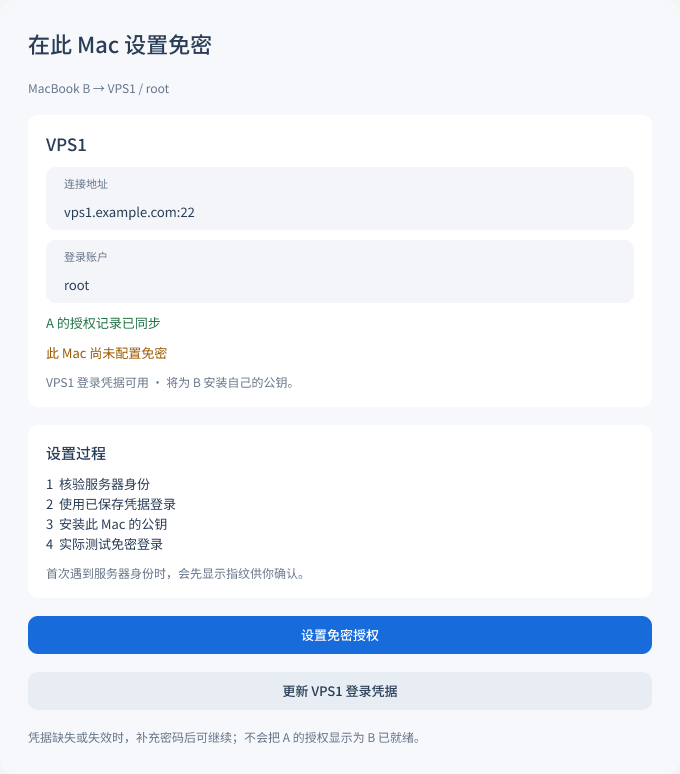
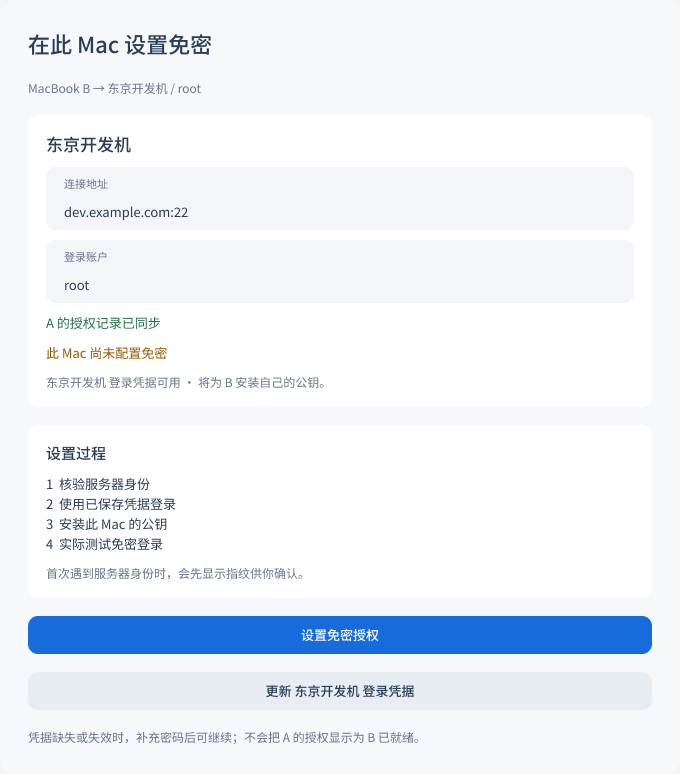
docs: separate local device setup from server authorization (#117)

diff --git a/Docs/Issue115/requirements.md b/Docs/Issue115/requirements.md
@@ -2,15 +2,15 @@
 
 - 状态：需求与交互设计提案；未实现、未完成真实 SSH / 双 Mac iCloud 验收。
 - 日期：2026-09-15
-- 关联：[#115](https://github.com/jihtsan/key-port/issues/115)
+- 关联：初稿 [#115](https://github.com/jihtsan/key-port/issues/115)；当前修订 [#117](https://github.com/jihtsan/key-port/issues/117)
 - 设计：[Figma 页面](https://www.figma.com/design/RGpDDMdxvoPwzhlTB5RyiY?node-id=61-2)
 - 配套：[交互与设计索引](design.md)、[验收清单](acceptance.md)
 
 ## 1. 用户目标与范围
 
-A 已配置 VPS1 后，B 通过同一 Apple 账户同步 VPS1 资料及用户选择保存的登录凭据，点击“设置免密授权”，即可安装 B 自己的公钥并验证登录。单向免密成功后，可主动点击红色“开启双向免密”，允许 VPS1 以指定本机账户反向 SSH 登录。
+A 已配置目标服务器后，B 通过同一 Apple 账户同步目标服务器资料及用户选择保存的登录凭据，点击“设置免密授权”，即可安装 B 自己的公钥并验证登录。单向免密成功后，可主动点击红色“开启双向免密”，允许目标服务器以指定本机账户反向 SSH 登录。
 
-本次只交付文档和 Figma。后续实现须遵循 Issue → 独立分支 → PR → 验证 → 合并流程。示例设备、地址、密码掩码与指纹均为设计数据。无需为设计操作真实设备或读取实际凭据。
+本次只交付文档和 Figma。后续实现须遵循 Issue → 独立分支 → PR → 验证 → 合并流程。服务器名称、ID、账户、地址和授权关系均来自当前选中的真实对象。VPS1、VPS2、东京开发机仅为示例称呼，不是固定栏目、内置设备或业务判断条件。示例设备、地址、密码掩码与指纹均为设计数据。无需为设计操作真实设备或读取实际凭据。
 
 ## 2. 关键定义
 
@@ -28,22 +28,50 @@ A 已配置 VPS1 后，B 通过同一 Apple 账户同步 VPS1 资料及用户选
 
 ## 3. 我的设备配置（D）
 
+我的设备仅配置本机默认信息和连接准备状态，不显示“谁可以登录此 Mac”、服务器列表或每服务器授权操作。服务器关系统一在服务器详情管理。
+
 | ID | 字段 / 能力 | 行为 |
 | --- | --- | --- |
-| D1 | 设备名称 | 显示当前 Mac 标识，允许修改 |
-| D2 | 默认 SSH 别名 | 自动生成并允许修改；重命名只影响后续预填，不自动改写已建立连接 |
-| D3 | 本机登录账户 | 默认当前 macOS 用户名；可选其他真实账户，操作权限不足时明确提示 |
-| D4 | 地址、端口 | 端口默认 22；支持保存局域网或 Tailscale 等候选地址，选择对方可达地址 |
-| D5 | 远程登录状态 | 检测 SSH 服务与目标账户允许情况；未开启时提供设置引导，不假定密码可开启服务 |
-| D6 | 可选本机密码 | 首次手输；保存不会修改系统密码；本地公钥安装不强制依赖此字段 |
-| D7 | 公钥与设备列表 | 保留现有设备、公钥指纹展示与选择复制能力 |
-| D8 | 入站授权 | 展示来源设备/账户 → 本机账户、指纹、最后核对与验证结果，提供核对、测试、撤销 |
+| D1 | 设备名称 | 当前 Mac 的展示标识，可修改 |
+| D2 | 默认 SSH 别名 | 自动生成并可修改；只影响后续预填，不自动改写已有连接 |
+| D3 | 本机登录凭据 | 账户与密码合并在唯一编辑入口；默认账户为当前用户，可修改为其他真实账户 |
+| D4 | 连接方式 | 公网 IP / 域名、Tailscale、局域网三种可选配置；无需强制填写公网地址 |
+| D5 | 远程登录状态 | 检测 SSH 服务与目标账户允许情况；未开启提供设置引导 |
+| D6 | 已保存凭据状态 | 在 D3 区域显示“账户 · 密码已保存”和同步状态，仅提供编辑/移除；不重复创建一份凭据 |
+| D7 | 本机公钥信息 | 展示或展开本机公钥指纹、复制能力；其他 KeyPort Mac 可按设备切换查看，不混入服务器授权列表 |
+| D8 | 页面边界 | 只提供本机配置；具体服务器的两向状态、测试、公钥核对与撤销属于服务器详情 |
 
-配置修改需要保存；未保存退出提示保存或放弃。地址更新不自动撤销公钥、不自动替换远端已存在别名。
+“本机信息”上方不再有独立的登录账户或登录证书表单。此功能不引入 SSH CA 证书登录。双向确认窗口只读引用 D3 的账户和凭据状态，不再次要求输入同一账号密码；需要修改时进入同一个编辑入口，返回后重新核对目标。更换账户不能把原账户密码自动绑定到新账户。编辑时新密码留空表示保持原密码，移除必须使用明确动作。
+
+配置修改需要保存；未保存退出提示保存或放弃。地址更新不自动撤销公钥、不自动替换远端已有别名。
+
+### 3.1 连接方式（N）
+
+| 方式 | 配置与获取 | 状态与限制 |
+| --- | --- | --- |
+| 公网 IP / 域名 | 手填有效 IPv4、IPv6 或域名及外部 SSH 端口 | 必须实际指向此 Mac；路由器出口 IP 不代表 Mac 已可被入站连接，存在 NAT 时需端口映射；不自动开放路由器或防火墙 |
+| Tailscale | 检测本机客户端 → 引导安装/官方登录 → 读取本机 Tailscale IP、可用设备域名 → 保存地址和 SSH 端口 | 没有公网地址也可选择；网络接入成功与 SSH 授权分开记录 |
+| 局域网 | 检测或手填本机局域网地址及 SSH 端口，多个接口时允许选择 | 明示仅适用于能够路由到该地址的对方，不承诺公网服务器可直接访问 |
+
+三种方式可分别保存为候选，本机设置默认方式；具体服务器双向确认时选择可达候选，不覆盖默认。未配置公网 IP 时不报必填错误、不阻止 Tailscale 路径。其他组网产品保留扩展点，不显示尚未支持的“授权成功”按钮。
+
+### 3.2 Tailscale 获取与授权流程
+
+1. 未安装：提供官方安装入口；KeyPort 不静默安装系统网络组件。
+2. 已安装未登录：按钮“打开 Tailscale 登录”，由官方客户端/浏览器完成身份验证及必要网络扩展许可；KeyPort 不索取 Tailscale 密码。
+3. 用户返回：刷新本地客户端状态，只有连接完成并取得本机节点地址才显示“地址已获取”；不能因为浏览器关闭或点击了登录按钮就判定成功。
+4. 读取本机节点的 IP 和可用设备域名，不要求用户申请云端 API token、OAuth client secret 或填写设备授权密钥来完成本机地址获取。
+5. 未完成登录、等待设备审批、客户端停止、地址缺失或读取失败分别提示；保留重试和手动改用其他连接方式入口。退出登录后旧地址标为待重新验证，不能继续显示已连接。
+6. 此处授权的是加入 Tailscale 网络。服务器也须有到该节点的有效网络路径，且网络访问规则允许目标端口；一般由服务器接入同一网络或经明确允许的共享/路由访问。
+7. 在服务器详情执行反向 SSH 端口检测与登录验证，才能得出“该服务器能登录此 Mac”。本机地址已获取不等于任意服务器都可达。
+8. 本期使用 Tailscale 承载普通 SSH 网络连接，继续使用既有公钥安装流程；不自动启用 Tailscale SSH。若它接管所选端口，须识别认证路径冲突并提供明确提示，不能将普通 authorized_keys 核对结果当作 Tailscale SSH 授权结论。
+9. iCloud 可同步所选方式和地址等管理元数据，不同步 Tailscale 会话、设备私有身份或登录票据。新 Mac 仍需完成自身 Tailscale 接入。
+
+技术依据（2026-09-15 核对官方文档）：[普通 SSH over Tailscale](https://tailscale.com/docs/reference/ssh-over-tailscale)、[CLI 状态读取](https://tailscale.com/docs/reference/tailscale-cli?tab=macos)、[Tailscale SSH 的独立认证路径](https://tailscale.com/docs/features/tailscale-ssh)。具体 macOS 客户端调用方式和系统权限需在实现阶段验证。
 
 ## 4. 凭据保存与同步（C）
 
-1. 服务器凭据绑定服务器身份与登录账户；本机凭据绑定本机身份与目标账户。禁止用 A 的本机密码当作 VPS1 密码。
+1. 服务器凭据绑定服务器身份与登录账户；本机凭据绑定本机身份与目标账户。禁止用 A 的本机密码当作目标服务器的密码。
 2. 保存面板提供“保存并通过 iCloud 同步”的明确选择；取消不保存。首次接入面板也允许只为本次使用，不持久化。
 3. 密码输入默认隐藏，展示/更换/移除需适当本机身份验证。只向当前操作提供必要的凭据；不写日志、命令行参数、SSH Config、普通工作区 JSON、Git、截图或元数据备份。
 4. 本地保存状态与同步状态分开：未保存、已保存仅本机、同步中、已同步、同步失败；B 还要区分“凭据未到达”与“凭据不可访问”。元数据先到时允许等待/重试或手输。
@@ -58,8 +86,8 @@ A 已配置 VPS1 后，B 通过同一 Apple 账户同步 VPS1 资料及用户选
 
 ## 5. B 一键建立正向免密（F）
 
-1. B 同步到 VPS1 后显示 A 的授权记录，以及“此 Mac 尚未配置免密”。
-2. 点击“设置免密授权”，预填 VPS1 地址、账户及可用凭据状态。
+1. B 同步到目标服务器后显示 A 的授权记录，以及“此 Mac 尚未配置免密”。
+2. 点击“设置免密授权”，预填目标服务器地址、账户及可用凭据状态。
 3. 核验目标主机身份；首次指纹未知或身份变化时显示确认流程，不自动信任。
 4. 为 B 创建或选择本机密钥；用有效登录凭据安装 B 的公钥，避免重复写入。
 5. 使用 B 的私钥进行真实非交互 SSH 验证；成功才显示“本机免密已就绪”。
@@ -71,15 +99,15 @@ A 已配置 VPS1 后，B 通过同一 Apple 账户同步 VPS1 资料及用户选
 
 ### 入口与确认
 
-正向已验证后，在具体服务器账户授权区域显示红色“开启双向免密”；“我的设备”入站授权列表也可进入同一关系面板。正向未就绪时引导先完成正向免密。
+在服务器列表选中一个服务器与登录账户后，详情展示“此 Mac → 当前服务器”和“当前服务器 → 此 Mac”的独立状态。正向已验证后显示红色“开启双向免密”；正向未就绪时引导先完成正向免密。我的设备没有服务器授权列表或双向按钮。切换服务器必须重新绑定该服务器的关系状态，不能沿用上一台服务器的结果。
 
-确认窗口列出 VPS1 来源账户、本机目标账户、目标地址/端口、反向 SSH 别名、授权效果与必要的专用密钥创建说明。默认取消，不因 iCloud 同步自动执行。红色表示授予对方本机访问能力，必须附文字说明，不能仅依赖颜色。
+确认窗口列出目标服务器来源账户、本机目标账户、所选连接方式与目标地址/端口、反向 SSH 别名、授权效果与必要的专用密钥创建说明。默认取消，不因 iCloud 同步自动执行。红色表示授予对方本机访问能力，必须附文字说明，不能仅依赖颜色。
 
 ### 别名规则
 
 - 预填 D2 默认值，可在确认窗口直接编辑。
 - 本次修改只作用于该反向关系，不覆盖设备默认值。
-- 写入的是 VPS1 上该来源账户的 SSH 配置，不是本机的出站别名。
+- 写入的是目标服务器上该来源账户的 SSH 配置，不是本机的出站别名。
 - 验证非空、合法字符与有效 SSH 配置重名，考虑 Include 与匹配规则；复用已有别名块必须确认属于同一受管理关系。
 - 冲突展示替代建议并要求用户选择，不静默覆盖用户配置。只管理 KeyPort 自己的配置块。
 - 该别名仅保证在已配置它的来源账户上可用；不宣称所有终端或设备自动可用。
@@ -87,10 +115,10 @@ A 已配置 VPS1 后，B 通过同一 Apple 账户同步 VPS1 资料及用户选
 ### 执行与验证
 
 1. 检查本机远程登录、目标账户权限和反向地址；本机安装当前用户授权文件通常无需密码，涉及系统设置或其他用户须通过适当系统权限流程。
-2. 通过现有正向 SSH 会话，在 VPS1 的明确来源账户下创建/选择专用反向密钥。优先每关系专用，私钥留在 VPS1；无可用工具、只读主目录等情况给出失败原因。
+2. 通过现有正向 SSH 会话，在目标服务器的明确来源账户下创建/选择专用反向密钥。优先每关系专用，私钥留在目标服务器；无可用工具、只读主目录等情况给出失败原因。
 3. 将对应公钥安装到本机目标账户，保留其他公钥及选项，记录安装来源与指纹。
-4. 为 VPS1 写入本机身份验证所需的主机信任信息与受管理别名块；不可关闭主机密钥检查来通过测试。
-5. 从 VPS1 实际连接到本机目标账户，验证免密成功；分别记录安装、别名写入和登录结果。
+4. 为目标服务器写入本机身份验证所需的主机信任信息与受管理别名块；不可关闭主机密钥检查来通过测试。
+5. 从目标服务器实际连接到本机目标账户，验证免密成功；分别记录安装、别名写入和登录结果。
 6. 正向与反向都验证成功后显示“双向免密已就绪”。地址不可达时不能宣称成功。
 
 ## 7. 状态、失败与撤销（S）
@@ -115,7 +143,7 @@ A 已配置 VPS1 后，B 通过同一 Apple 账户同步 VPS1 资料及用户选
 
 展示准确来源、目标账户及公钥指纹，经本机身份验证后移除指定授权。只清理属于该关系的内容，不删除无关密钥、配置、日志。正向连接保持不变。
 
-优先采用每关系专用公钥；若已有公钥被多个关系复用，必须列出实际受影响范围，不能声称仅影响一条关系。VPS1 离线不阻止本机撤销，但其别名可能标记为待清理。移除公钥不会主动终止已建立 SSH 会话。读取或写入失败显示“撤销未确认”，核对成功后才显示“已撤销”。不自动删除 VPS1 的私钥。
+优先采用每关系专用公钥；若已有公钥被多个关系复用，必须列出实际受影响范围，不能声称仅影响一条关系。目标服务器离线不阻止本机撤销，但其别名可能标记为待清理。移除公钥不会主动终止已建立 SSH 会话。读取或写入失败显示“撤销未确认”，核对成功后才显示“已撤销”。不自动删除目标服务器的私钥。
 
 ## 8. 现有行为与迁移
 
@@ -125,8 +153,8 @@ A 已配置 VPS1 后，B 通过同一 Apple 账户同步 VPS1 资料及用户选
 
 ## 9. 后续实现拆分
 
-1. 本机配置与默认别名、入站关系模型和兼容迁移。
-2. 凭据存取及真实双 Mac 同步能力验证；确定选型后实现 C。
+1. 本机配置、唯一凭据入口、默认别名与连接方式；服务器详情关系模型和兼容迁移。
+2. Tailscale 客户端接入与本机地址读取；凭据存取及真实双 Mac 同步能力验证，确定选型后实现 C。
 3. B 的正向首次授权与失败恢复。
 4. 反向密钥、信任、别名安装及逐步验证。
 5. 精确撤销、共享公钥范围、异常恢复和原生 UI 验收。

diff --git a/Docs/Issue115/design.md b/Docs/Issue115/design.md
@@ -1,42 +1,57 @@
 # Figma 交互设计索引
 
-[需求](requirements.md) · [验收](acceptance.md) · [Issue #115](https://github.com/jihtsan/key-port/issues/115)
+[需求](requirements.md) · [验收](acceptance.md) · [修订 Issue #117](https://github.com/jihtsan/key-port/issues/117)
 
-## 设计范围与基线
+## 页面职责
 
-沿用现有 [设置 v2](https://www.figma.com/design/RGpDDMdxvoPwzhlTB5RyiY?node-id=54-2) 的浅色分组表单、圆角卡片及蓝色主操作；双向授予与撤销使用带文字解释的红色按钮。新增独立页面，不覆盖已有设计。
+| 页面 | 内容 | 唯一数据来源 |
+| --- | --- | --- |
+| 我的设备 | 本机名称、默认别名、连接方式、登录凭据摘要和远程登录状态 | 当前 Mac 配置 |
+| 编辑本机登录凭据 | 账户与密码的唯一编辑入口 | 同一份设备账户凭据 |
+| 配置连接方式 | 可选公网 IP / 域名、Tailscale、局域网 | 本机候选地址及默认方式 |
+| 服务器详情 | 当前服务器与本机的两向授权状态、双向按钮、核对、测试、撤销 | 当前选中服务器、账户和当前 Mac 的关系 |
 
-代码使用系统字体及 JetBrains Mono；现有设计使用 Noto Sans SC。本轮 Figma 的 SF Pro 拉丁字形实际渲染为空，已统一使用现有 Noto Sans SC 并重新检查截图。实现仍使用原生系统字体，需要单独做字体与布局验收。此次是可编辑界面提案，不交付独立组件库；当前文件未发现 KeyPort 发布组件、变量或样式。
+我的设备不列“谁可以登录此 Mac”，不放任何具体服务器卡片或双向免密按钮。已保存本机凭据只展示摘要与“编辑登录凭据”，上方不再重复设置账户或证书。示例服务器名称全部由真实选中对象替换；“东京开发机”与先前 VPS1/VPS2 都不是固定项目。
+
+## 设计基线
+
+沿用 [设置 v2](https://www.figma.com/design/RGpDDMdxvoPwzhlTB5RyiY?node-id=54-2) 的浅色分组表单和蓝色主操作，授予反向访问和撤销使用红色并明确说明对象。沿用本次设计页面更新，旧稿由 Git 历史保存。
+
+代码使用系统字体；Figma 使用既有 Noto Sans SC，避免已观察到的 SF Pro 渲染空白。所有文字显式设定可用宽度，并校验边界。此次为可编辑画板和部分导航演示，不交付独立组件库，也不是原生可输入界面。
 
 ## 界面与需求映射
 
 | 界面 | Figma | 覆盖需求 | 截图 |
 | --- | --- | --- | --- |
-| 01 我的设备 | [61:3](https://www.figma.com/design/RGpDDMdxvoPwzhlTB5RyiY?node-id=61-3) | D1–D8 | [PNG](evidence/01-my-devices.png) |
-| 02 新 Mac 设置免密 | [61:4](https://www.figma.com/design/RGpDDMdxvoPwzhlTB5RyiY?node-id=61-4) | C、F | [PNG](evidence/02-new-mac.png) |
-| 03 双向免密确认 | [61:5](https://www.figma.com/design/RGpDDMdxvoPwzhlTB5RyiY?node-id=61-5) | R、默认别名覆盖 | [PNG](evidence/03-confirm.png) |
-| 04 双向验证结果 | [61:6](https://www.figma.com/design/RGpDDMdxvoPwzhlTB5RyiY?node-id=61-6) | S、独立方向 | [PNG](evidence/04-success.png) |
-| 05 反向失败与恢复 | [61:7](https://www.figma.com/design/RGpDDMdxvoPwzhlTB5RyiY?node-id=61-7) | 部分完成、重试、撤销 | [PNG](evidence/05-partial-failure.png) |
-| 06 撤销反向授权 | [61:8](https://www.figma.com/design/RGpDDMdxvoPwzhlTB5RyiY?node-id=61-8) | S、范围及身份验证 | [PNG](evidence/06-revoke.png) |
-| 07 保存登录凭据 | [61:9](https://www.figma.com/design/RGpDDMdxvoPwzhlTB5RyiY?node-id=61-9) | C、手输与同步选择 | [PNG](evidence/07-credentials.png) |
+| 01 我的设备 | [61:3](https://www.figma.com/design/RGpDDMdxvoPwzhlTB5RyiY?node-id=61-3) | D1–D8，仅本机 | [PNG](evidence/01-my-devices.png) |
+| 02 新 Mac 设置免密 | [61:4](https://www.figma.com/design/RGpDDMdxvoPwzhlTB5RyiY?node-id=61-4) | C、F，当前服务器数据 | [PNG](evidence/02-new-mac.png) |
+| 03 双向免密确认 | [61:5](https://www.figma.com/design/RGpDDMdxvoPwzhlTB5RyiY?node-id=61-5) | R，本机凭据只读引用、别名可覆盖 | [PNG](evidence/03-confirm.png) |
+| 04 双向验证结果 | [61:6](https://www.figma.com/design/RGpDDMdxvoPwzhlTB5RyiY?node-id=61-6) | 服务器详情已就绪状态 | [PNG](evidence/04-success.png) |
+| 05 反向失败与恢复 | [61:7](https://www.figma.com/design/RGpDDMdxvoPwzhlTB5RyiY?node-id=61-7) | 服务器关系的部分完成 | [PNG](evidence/05-partial-failure.png) |
+| 06 撤销反向授权 | [61:8](https://www.figma.com/design/RGpDDMdxvoPwzhlTB5RyiY?node-id=61-8) | 当前关系的撤销范围 | [PNG](evidence/06-revoke.png) |
+| 07 编辑已保存凭据 | [61:9](https://www.figma.com/design/RGpDDMdxvoPwzhlTB5RyiY?node-id=61-9) | C，原密码保留和同步 | [PNG](evidence/07-credentials.png) |
+| 08 连接方式：公网 | [67:2](https://www.figma.com/design/RGpDDMdxvoPwzhlTB5RyiY?node-id=67-2) | N，可选公网地址与外部端口 | [PNG](evidence/08-public-address.png) |
+| 09 Tailscale 待接入 | [67:3](https://www.figma.com/design/RGpDDMdxvoPwzhlTB5RyiY?node-id=67-3) | N，官方登录与状态刷新 | [PNG](evidence/09-tailscale-login.png) |
+| 10 服务器详情 | [67:4](https://www.figma.com/design/RGpDDMdxvoPwzhlTB5RyiY?node-id=67-4) | R，唯一双向操作所属位置 | [PNG](evidence/10-server-detail.png) |
+| 11 Tailscale 地址就绪 | [67:5](https://www.figma.com/design/RGpDDMdxvoPwzhlTB5RyiY?node-id=67-5) | N，地址获取不等于 SSH 成功 | [PNG](evidence/11-tailscale-ready.png) |
 
 ## 交互契约
 
-- 我的设备 → 添加登录凭据 → 保存/取消；保存成功后更新凭据状态，不展示明文密码。
-- 新 Mac 设置免密 → 主机身份核验 → 安装 → 实际验证；缺失凭据进入更新面板。
-- 正向验证成功 → 红色开启双向免密 → 可编辑默认别名 → 确认 → 分步执行 → 成功或部分失败。
-- 部分失败 → 修改地址并重试，或撤销已安装授权；“稍后处理”保留当前分步状态。
-- 已就绪 → 核对公钥、测试连接或撤销；三个动作不混为一谈。
-- 红色确认默认不获得键盘焦点；Escape 取消。运行时禁用重复提交并显示当前步骤。
-- 字段采用真实可编辑控件，支持键盘顺序、复制和完整值展示。别名冲突错误贴近字段，保留输入，不静默改名。
-- 字段校验和系统权限对话框由实现提供；Figma 静态文本不是已经可输入的原生控件。
+- 我的设备 → 配置连接方式 → 选择公网/Tailscale/局域网。公网展示地址与外部端口；Tailscale 展示客户端状态与接入入口；局域网实现为接口选择/手填表单，字段与限制见需求 N。
+- Tailscale 未安装时提供安装入口，未登录时打开官方流程；用户返回后读取真实状态和本机地址。未安装、审批中、断开等文案变体见 requirements.md，不把演示跳转当成客户端已登录。
+- 我的设备 → 编辑登录凭据。已有密码不重复输入；新密码留空保持原值，更换账户须重新绑定凭据。初次未保存状态沿用此入口，显示密码输入及保存选项，不另建第二份账户字段。
+- 服务器详情 → 正向免密成功 → 红色开启双向免密 → 引用本机已保存账户与默认连接方式 → 可编辑本次别名 → 确认 → 分方向执行 → 成功或部分失败。
+- 双向确认取消返回当前服务器详情，不能返回我的设备。修改本机配置的链接可暂时进入我的设备，返回后重新核对引用值，不隐式改写已授权关系。
+- 服务器关系失败时支持修改地址并重试或精确撤销。“核对公钥”与“测试连接”分开；成功页和撤销页均属于当前服务器的关系流程。
+- 切换服务器时来源名称、账户、地址、双向状态均重新读取；空列表不出现示例服务器卡片，异步旧请求不能污染新选中对象。
+- 红色确认默认不获得键盘焦点；Escape 取消。运行中禁用重复提交并显示步骤。字段错误贴近输入，不以颜色作为唯一提示。
 
-## 版式与视觉验收边界
+## 视觉与交互验收边界
 
-画板宽 680，展示完整内容。原生实现使用可滚动内容区，在 640 高窗口及系统大字体下保持全部字段和操作可达；不能照搬 983 高全内容画板为固定不可滚动窗口。表单/卡片采用 auto-layout，避免长地址挤压。
+画板宽 680，完整内容最高约 904。原生实现必须使用可滚动区域，支持 640 高窗口、大字体、长名称和长地址。Figma 静态画板中的字段不是实际输入控件。
 
-截图仅证明设计内容与排版。尚需真实 macOS 运行中验证窗口尺寸、滚动、焦点、密码控件、VoiceOver、对话框与交互；SSH/iCloud 能力按 requirements.md 和 acceptance.md 另行验收。
+导航只覆盖部分演示路径；“已登录，获取本机地址”到地址就绪、双向确认到成功页都是模拟，不连接网络、不保存凭据。安装、官方登录、局域网选择、实际保存和撤销结果须在实现时接通，不能把导航截图当作端到端验收。
 
-## 设计检查记录
+## 本轮检查记录
 
-2026-09-15：逐张查看七个导出 PNG，标题、账号、地址、别名、按钮和密码掩码均可见；文本几何检查无零宽文本或父容器越界。画板按三列排布，无互相覆盖。8 条按钮导航已配置并读回，用于部分路径演示；确认跳转成功页仅为模拟，不执行 SSH。失败画板可直接打开，文本输入、取消后的状态还原、系统身份验证和异步运行尚不是可操作原型。
+十一张画板逐张截图检查，验证账号/地址可见、默认别名可辨、凭据单一入口、我的设备无服务器关系，服务器详情有双向操作。文本几何检查无零宽或父容器越界；原型导航无已删除节点引用。实际 SSH、Tailscale 客户端调用、iCloud、macOS 交互和认证测试均未执行。

diff --git a/Docs/Issue115/acceptance.md b/Docs/Issue115/acceptance.md
@@ -4,8 +4,8 @@
 
 ## 本次需求与设计交付
 
-- [x] Issue #115、独立分支、需求范围明确，仅文档与设计。
-- [x] 七个 Figma 画板及对应截图，关联需求编号。
+- [x] Issue #115 / #117、独立分支、需求范围明确，仅文档与设计。
+- [x] 十一个 Figma 画板及对应截图，关联需求编号。
 - [x] 明确默认别名、本次覆盖、账户与地址、密码首次手输、可选保存同步。
 - [x] 明确公钥安装与实际验证分离、部分失败、精确撤销和既有会话边界。
 - [x] 将凭据同步技术方案及签名/双 Mac 能力列为待验证项。
@@ -14,16 +14,16 @@
 
 | 编号 | 操作 | 必须观察到的结果 |
 | --- | --- | --- |
-| A01 | 全新工作区打开我的设备 | 当前账户和默认别名预填；密码未保存不阻塞本地公钥安装 |
+| A01 | 全新工作区打开我的设备 | 默认别名预填；账户仅在唯一凭据编辑入口预填，密码未保存不阻塞本地公钥安装 |
 | A02 | 修改默认别名，再打开双向确认 | 新默认值预填；本次覆盖不改变默认值或其他关系 |
 | A03 | 远端已有同名 SSH 配置 | 明确冲突，不覆盖原文件，修正后可以继续 |
-| A04 | A 保存 VPS1 密码，B 同步 | 元数据与凭据到达分别显示；B 未验证前不得显示就绪 |
-| A05 | B 点击设置免密 | VPS1 安装 B 公钥；B 私钥不离开 B；真实无密码登录成功 |
+| A04 | A 保存目标服务器密码，B 同步 | 元数据与凭据到达分别显示；B 未验证前不得显示就绪 |
+| A05 | B 点击设置免密 | 目标服务器安装 B 公钥；B 私钥不离开 B；真实无密码登录成功 |
 | A06 | 密码缺失/失效/密码认证关闭 | 分别显示原因及可行下一步，无无限重试或假成功 |
 | A07 | iCloud 关闭/失败/凭据不可访问 | 状态真实，允许本次手输；普通备份中不包含密码 |
 | A08 | 首次或变化的服务器主机指纹 | 必须先确认可信身份，再发送密码或修改授权 |
 | A09 | 正向未验证，尝试双向 | 引导先完成正向；不会自动授予反向权限 |
-| A10 | 正向成功后确认双向 | 两向各自验证，VPS1 能使用指定别名登录准确本机账户 |
+| A10 | 正向成功后确认双向 | 两向各自验证，目标服务器能使用指定别名登录准确本机账户 |
 | A11 | 本机远程登录关闭/地址不可达 | 分别定位原因；已安装公钥明确标记仍存在 |
 | A12 | 别名写入失败/安装后崩溃/用户取消 | 恢复时核对已执行步骤；重试不重复写入，不假定回滚 |
 | A13 | 当前用户与其他本机账户 | 权限不足明确提示；不自动读取系统密码或绕过系统授权 |
@@ -34,6 +34,14 @@
 | A18 | 640 高窗口、长地址、大字体、键盘和 VoiceOver | 可滚动且操作可达；错误不靠颜色；密码保持隐藏 |
 | A19 | 日志、进程参数、工作区、备份检查 | 无明文密码或私钥泄漏 |
 | A20 | 两台真实签名 Mac、真实 VPS | 验证凭据同步与两向 SSH；不得以设计截图、mock 或 ad-hoc 构建代替 |
+| A21 | 没有公网 IP，选择 Tailscale | 公网字段不必填；安装/登录/读取本机地址流程可进入 |
+| A22 | 已保存本机账户密码，重新打开我的设备 | 只显示一份凭据摘要与编辑入口；上方无重复账户/证书表单 |
+| A23 | 选择任意两台不同名称/账户的服务器 | 两向状态与动作随选择变化；我的设备不出现服务器授权列表 |
+| A24 | Tailscale 未安装/未登录/审批中/断开/读取失败 | 对应状态真实；点击登录或返回应用不等于已接入 |
+| A25 | Tailscale 本机已连接，但服务器不在可达网络或端口被拒绝 | 地址可保存但双向免密不得报成功；提示实际网络或端口失败 |
+| A26 | 只具备路由器公网出口 IP / 存在 NAT / 多局域网接口 | 不自动判定入站可达；允许配置外部端口或改用其他方式 |
+| A27 | 修改凭据时密码留空 / 更换账户 / 移除密码 | 分别保持原密码、要求新账户凭据、执行明确移除；不交叉复用旧密码 |
+| A28 | 新 Mac 收到 Tailscale 地址元数据 / Tailscale SSH 接管端口 | 不继承其他设备网络会话；识别普通 SSH 与 Tailscale SSH 的认证差异 |
 
 ## 验证方式
 
